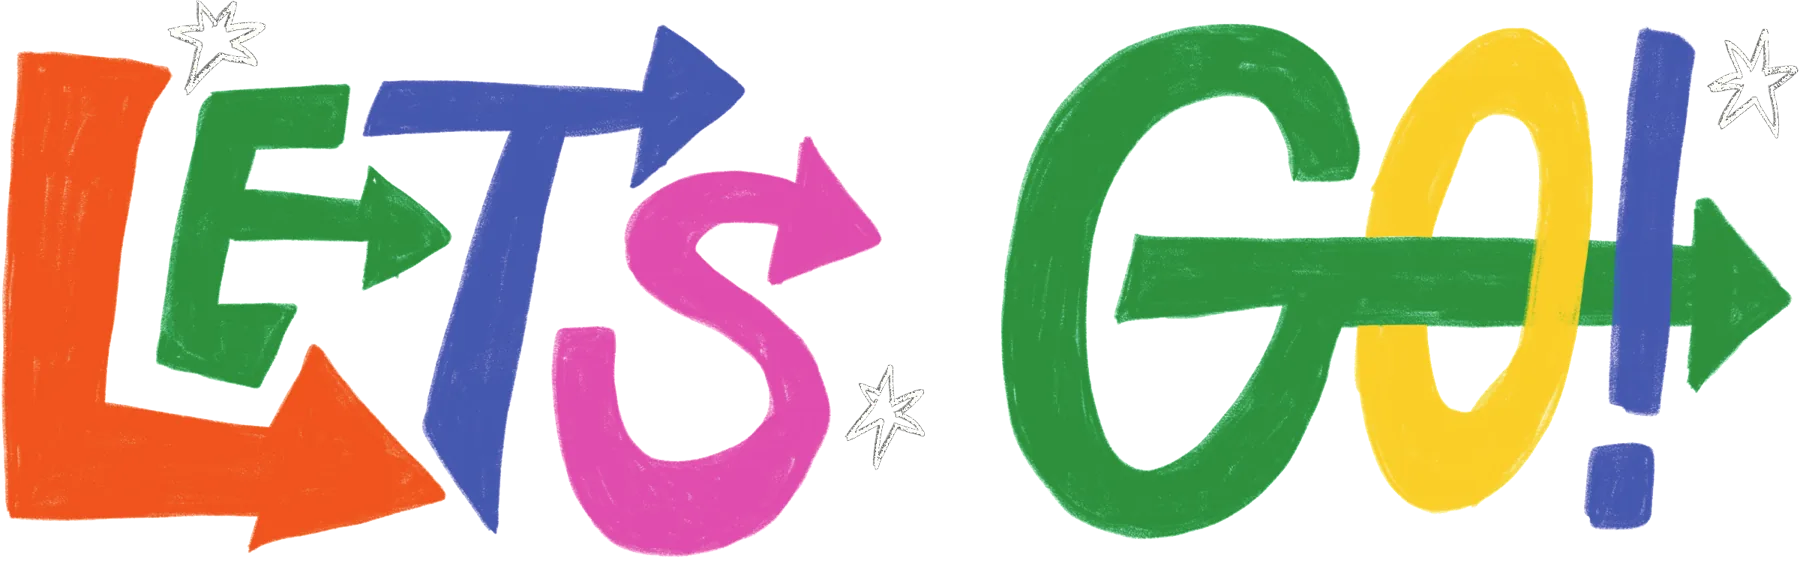
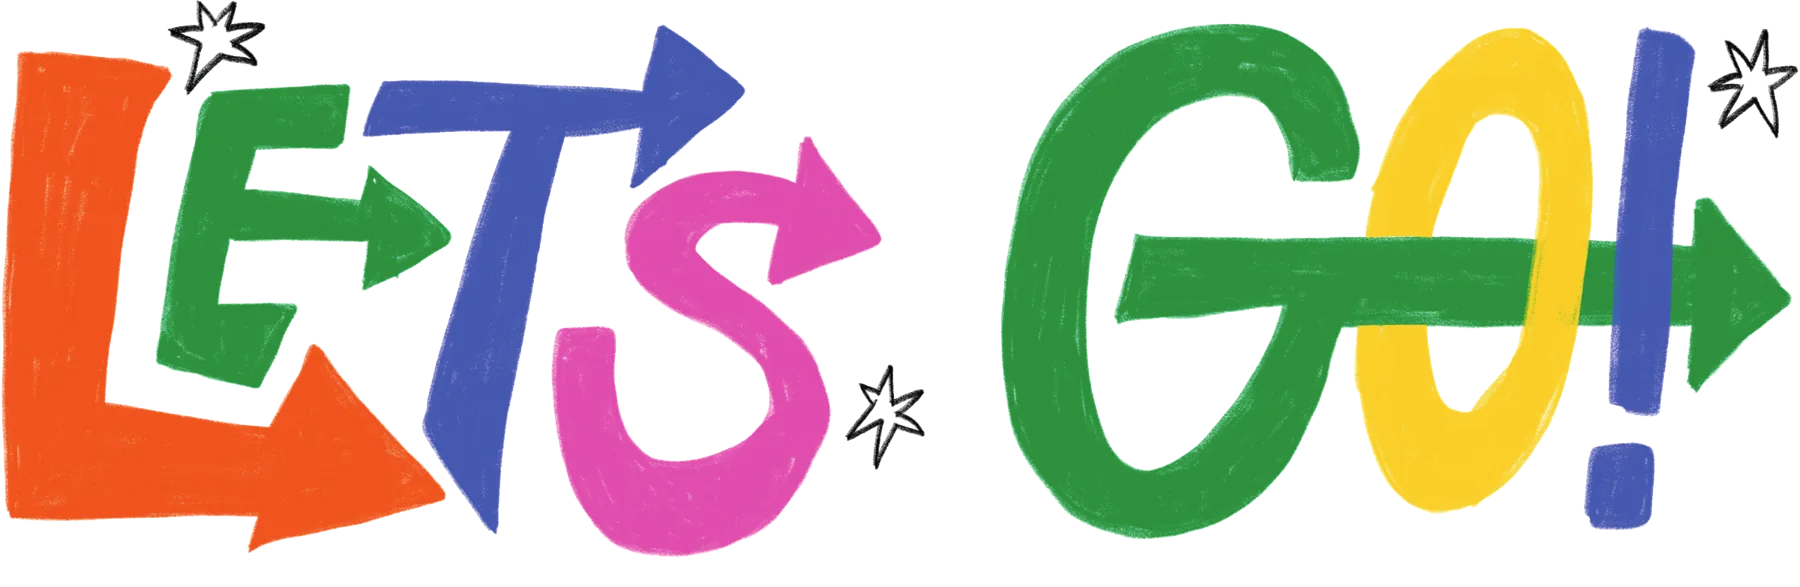
Footer on cream with dark stars

Changed region(s): [[0.0933, 0.0, 0.1556, 0.1533], [0.9333, 0.0613, 1.0, 0.2147], [0.4667, 0.644, 0.5289, 0.7973]]

diff --git a/site-source/new-layout.html b/site-source/new-layout.html
@@ -1081,7 +1081,10 @@ footer {
 .nh-story .nh-wrap { grid-template-columns: minmax(0, 0.75fr) minmax(0, 1fr); }
 .nh-story img { width: 100%; min-width: 0; }
 @media (max-width: 900px) { .nh-story .nh-wrap { grid-template-columns: minmax(0, 1fr); } }
-.nh-footer { padding-block: 48px 0; overflow: hidden; }
+.nh-footer { padding-block: 48px 0; overflow: hidden; background: var(--nh-paper); color: var(--nh-ink); border-top: 2.5px solid var(--nh-ink); }
+.nh-footer img { filter: none; }
+.nh-footer nav a { opacity: 1; }
+.nh-footer-legal { opacity: 0.7; }
 .nh-footer-legal { margin-top: 16px; }
 .nh-footer img.nh-footer-art { display: block; height: auto; width: 100%; max-width: 100%; filter: none; margin: 44px 0 -1.6%; }
 .nh-footer .nh-footer-artwrap { display: block; }
@@ -1130,7 +1133,7 @@ footer {
       </nav>
     </div>
     <div class="nh-wrap nh-footer-legal">&copy; 2026 2Homies. Made by moms. Illustrated by Maxine McCrann.</div>
-    <div class="nh-wrap nh-footer-artwrap"><img class="nh-footer-art" src="https://chrisdanton.github.io/2homies/illo/site/letsgo-footer.webp" width="1800" height="587" alt="Let's go!"></div>
+    <div class="nh-wrap nh-footer-artwrap"><img class="nh-footer-art" src="https://chrisdanton.github.io/2homies/illo/site/letsgo-footer.webp?v=2" width="1800" height="587" alt="Let's go!"></div>
   </footer>
 
   <script src="{{ 'api' | theme_js_url }}"></script>
